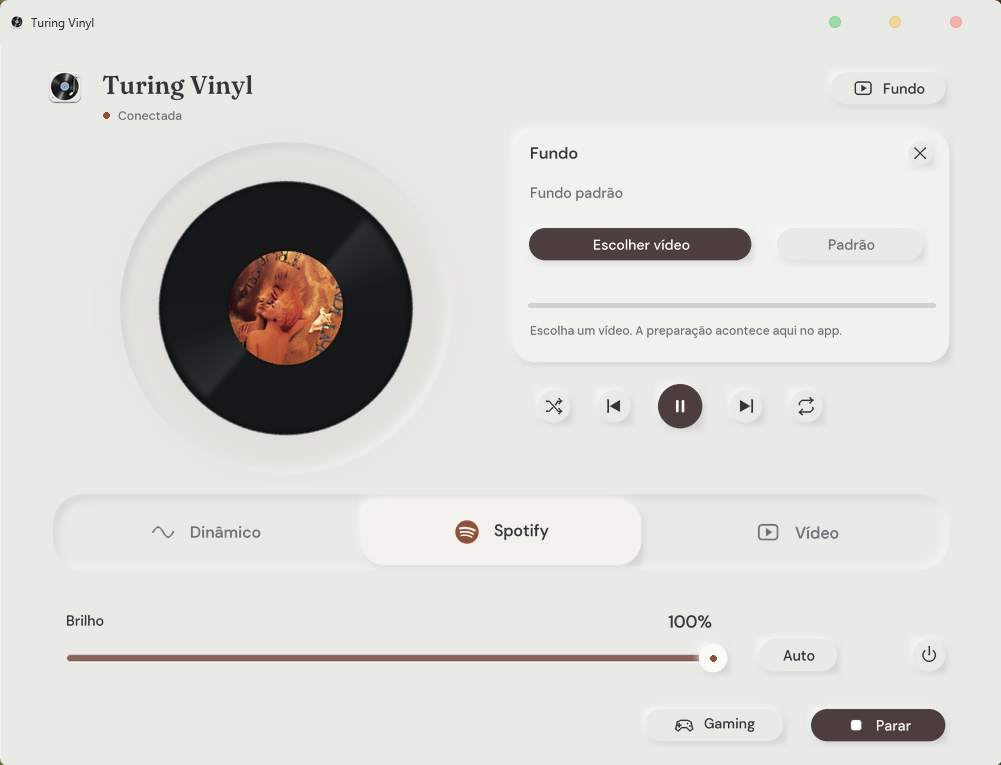
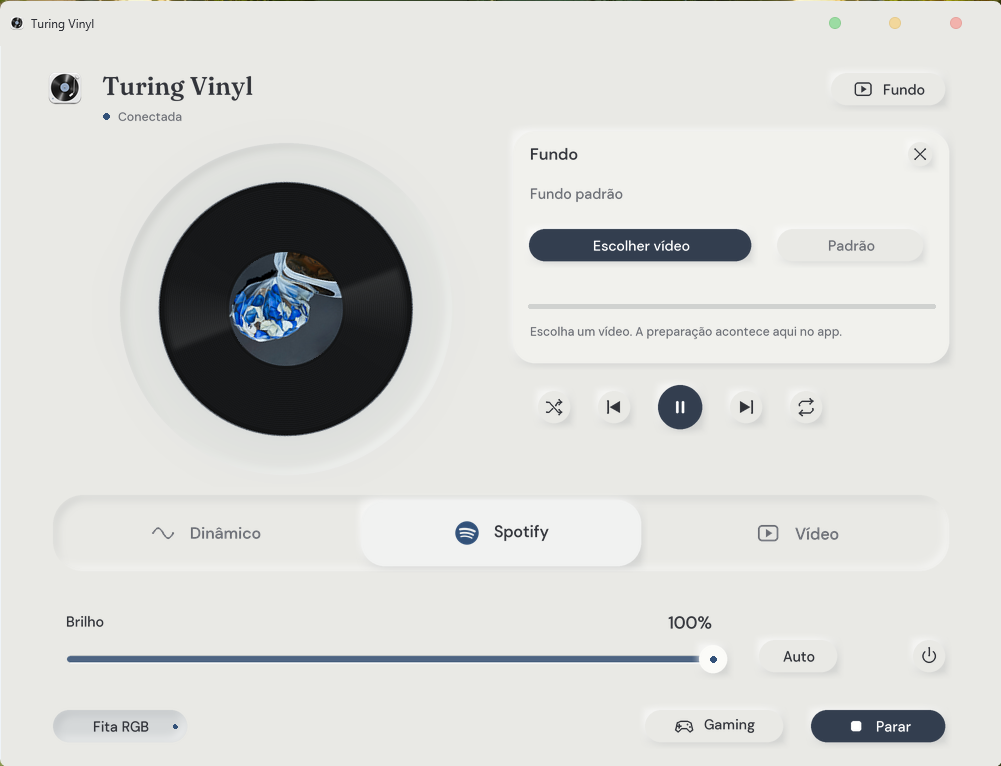
docs: refresh interface screenshots and RGB panel guide

diff --git a/docs/integrations.pt-BR.md b/docs/integrations.pt-BR.md
@@ -48,9 +48,19 @@ npm.cmd ci
 
 Mantenha a pasta com **config.cmd**, **src/ble-device.cjs** e **node_modules**.
 
-### 2. Configure o endereço da fita
+### 2. Conecte pelo Turing Vinyl
 
-Ligue o Bluetooth e a fita. Depois que o Windows detectar a controladora, execute no PowerShell:
+1. Ligue o Bluetooth e a fita. Feche o Lotus no celular e outros programas que a controlem.
+2. Abra **Turing Vinyl → Fita RGB** para mostrar o painel de controle.
+3. Clique em **Desligada** para ativar a fita. No primeiro uso, escolha a **pasta do Lotus** que você preparou.
+4. Clique em **Iniciar** na janela principal. O painel mostra o estado da conexão; **Pasta Lotus** troca a pasta usada.
+
+O app procura uma **ELK-BLEDDM** compatível e pode reencontrá-la após uma falha de conexão se o endereço mudar. Se encontrar várias fitas compatíveis, escolha a sua no painel. O endereço confirmado é salvo localmente; o `config.cmd` não é reescrito.
+
+<details>
+<summary>Opcional: informar um endereço Bluetooth conhecido</summary>
+
+Você pode fornecer um endereço inicial no **config.cmd** do Lotus. Depois que o Windows detectar a fita, consulte-o no PowerShell:
 
 ```powershell
 Get-PnpDevice -Class Bluetooth |
@@ -64,17 +74,18 @@ Em um identificador como `BTHLE\DEV_AA11BB22CC33\...`, **AA11BB22CC33** é o end
 set LED_DEVICE_UUID=AA11BB22CC33
 ```
 
-Use o seu endereço, não o exemplo. Se nenhum dispositivo aparecer, confira as configurações de Bluetooth do Windows. Se o endereço mudar depois, atualize essa linha.
+Use o seu endereço, não o exemplo. Se nenhum dispositivo aparecer, confira as configurações de Bluetooth do Windows.
 
-### 3. Conecte pelo Turing Vinyl
+</details>
 
-1. Feche o Lotus no celular e qualquer outro programa que controle a fita.
-2. Abra o **Turing Vinyl** e clique em **Fita RGB**. No primeiro uso, escolha a **pasta do Lotus** que você preparou.
-3. Clique em **Iniciar** na janela principal. A fita acompanha as cores do álbum e o brilho usado para os LEDs do PC, com transições suaves.
+### 3. Escolha cor e brilho
 
-Clique com o botão direito em **Fita RGB** para trocar a pasta do Lotus. Passe o mouse sobre ele para ver o estado da conexão. Clicar novamente desativa a sincronização; parar o app mantém a última cor na fita.
+- **Música:** acompanha a cor do álbum com transições suaves.
+- **Manual:** escolha uma cor fixa pela roda ou pelos campos **RGB, HSV ou HEX**.
+- **Brilho da fita:** ajusta a fita de forma independente. **Tela** acompanha o brilho dos LEDs do PC.
+- **Ligada / Desligada:** controla a fita; fechar o painel mantém os ajustes.
 
-O Turing Vinyl inicia sua própria ponte Bluetooth. Deixe o iniciador do Lotus fechado; essa integração não exige OpenRGB nem o plugin Effects. Em caso de falha de conexão, a ponte tenta novamente o endereço configurado.
+O Turing Vinyl inicia sua própria ponte Bluetooth. Deixe o iniciador do Lotus fechado; essa integração não exige OpenRGB nem o plugin Effects. Parar o app mantém a última cor na fita.
 
 ### Calibração das cores e registros
 

diff --git a/docs/integrations.md b/docs/integrations.md
@@ -48,9 +48,19 @@ npm.cmd ci
 
 Keep the folder containing **config.cmd**, **src/ble-device.cjs** and **node_modules**.
 
-### 2. Set your strip's address
+### 2. Connect through Turing Vinyl
 
-Turn on Bluetooth and the strip. After Windows detects it, run this in PowerShell:
+1. Turn on Bluetooth and the strip. Close Lotus on the phone and other programs controlling it.
+2. Open **Turing Vinyl → Fita RGB** to show the control panel.
+3. Click **Desligada** to enable the strip. On the first use, select the **Lotus folder** you prepared.
+4. Click **Iniciar** in the main window. The panel shows the connection status; **Pasta Lotus** changes the folder.
+
+The app searches for a compatible **ELK-BLEDDM** and can rediscover it after a connection failure if its address changes. If several compatible strips are found, select yours in the panel. The confirmed address is saved locally; `config.cmd` is not rewritten.
+
+<details>
+<summary>Optional: provide a known Bluetooth address</summary>
+
+You can supply an initial address in the Lotus **config.cmd**. After Windows detects the strip, find it in PowerShell:
 
 ```powershell
 Get-PnpDevice -Class Bluetooth |
@@ -64,17 +74,18 @@ In an ID such as `BTHLE\DEV_AA11BB22CC33\...`, **AA11BB22CC33** is the address. 
 set LED_DEVICE_UUID=AA11BB22CC33
 ```
 
-Use your own address, not the example. If no device appears, check Windows Bluetooth settings. If the address changes later, update this line.
+Use your own address, not the example. If no device appears, check Windows Bluetooth settings.
 
-### 3. Connect through Turing Vinyl
+</details>
 
-1. Close Lotus on the phone and any other program controlling the strip.
-2. Open **Turing Vinyl** and click **Fita RGB**. On the first use, select the **Lotus folder** you prepared.
-3. Click **Iniciar** in the main window. The strip follows album colors and the brightness used for the PC LEDs, with smooth transitions.
+### 3. Choose color and brightness
 
-Right-click **Fita RGB** to change the Lotus folder. Hover over it for connection status. Clicking it again disables synchronization; stopping the app leaves the strip at its last color.
+- **Música:** follow the album color with smooth transitions.
+- **Manual:** choose a fixed color using the wheel or **RGB, HSV or HEX** inputs.
+- **Brilho da fita:** adjust the strip independently. **Tela** follows the PC LEDs' brightness.
+- **Ligada / Desligada:** control the strip; closing the panel keeps its settings.
 
-Turing Vinyl starts its own Bluetooth bridge. Keep the Lotus launcher closed; you do not need OpenRGB or its Effects plugin for this integration. On connection failure, the bridge retries the configured address.
+Turing Vinyl starts its own Bluetooth bridge. Keep the Lotus launcher closed; you do not need OpenRGB or its Effects plugin for this integration. Stopping the app leaves the strip at its last color.
 
 ### Color calibration and logs
 

diff --git a/README.pt-BR.md b/README.pt-BR.md
@@ -63,6 +63,8 @@ Dê dois cliques em **Turing Vinyl.lnk**, na pasta do projeto. Use esse atalho n
   <img src="docs/images/turing-vinyl-interface.png" alt="Interface do Turing Vinyl no Windows: disco girando, controles do Spotify, modos de exibição e slider de brilho" width="860">
 </p>
 
+<p align="center"><sub>Modo Spotify: capa do álbum, informações da faixa e playlist, controles de música e brilho da tela.</sub></p>
+
 1. Conecte a tela por USB e coloque uma música no **Spotify para Windows**.
 2. Abra o **Turing Vinyl**, escolha um modo e clique em **Iniciar**.
 3. Clique em **Parar** quando terminar.
@@ -81,9 +83,24 @@ Dê dois cliques em **Turing Vinyl.lnk**, na pasta do projeto. Use esse atalho n
 | **Fundo → Escolher vídeo** | Escolha seu fundo; o app converte e salva a seleção. **Padrão** restaura o vídeo incluído. |
 
 <details>
-<summary>Ver o painel de vídeo de fundo</summary>
+<summary>Vídeo de fundo · escolha o seu</summary>
 
-<img src="docs/images/turing-vinyl-background.png" alt="Painel de escolha do vídeo de fundo no Turing Vinyl com progresso da conversão" width="860">
+<p align="center">
+  <img src="docs/images/turing-vinyl-background.png" alt="Painel Fundo do Turing Vinyl com Escolher vídeo, Padrão e progresso da conversão automática" width="860">
+</p>
+
+Abra **Fundo**, clique em **Escolher vídeo** e aguarde o preparo pelo app. **Padrão** restaura o fundo incluído.
+
+</details>
+
+<details>
+<summary>Fita RGB Bluetooth · cor e brilho</summary>
+
+<p align="center">
+  <img src="docs/images/turing-vinyl-rgb-strip.png" alt="Turing Vinyl ao lado do painel da fita RGB Bluetooth Lotus Lantern com roda de cores, campos RGB HSV HEX e slider de brilho" width="1000">
+</p>
+
+Abra **Fita RGB**. Escolha **Música** para acompanhar o álbum ou **Manual** para usar a roda de cores e os campos RGB, HSV ou HEX. O slider ajusta o brilho da fita; **Tela** acompanha o brilho dos LEDs do PC. [Guia de conexão](docs/integrations.pt-BR.md#fita-bluetooth-com-lotus-lantern).
 
 </details>
 

diff --git a/README.md b/README.md
@@ -62,6 +62,8 @@ Double-click **Turing Vinyl.lnk** in the project folder. Use this shortcut every
   <img src="docs/images/turing-vinyl-interface.png" alt="Turing Vinyl Windows interface: rotating record, Spotify playback controls, display modes and brightness slider" width="860">
 </p>
 
+<p align="center"><sub>Spotify mode: album artwork, track and playlist details, playback controls and screen brightness.</sub></p>
+
 1. Connect the screen by USB and start a track in **Spotify for Windows**.
 2. Open **Turing Vinyl**, choose a mode and click **Iniciar** (Start).
 3. Click **Parar** (Stop) when finished.
@@ -82,9 +84,24 @@ The interface labels are currently in Portuguese.
 | **Fundo → Escolher vídeo** | Pick your background; the app converts it and saves your choice. **Padrão** restores the included video. |
 
 <details>
-<summary>See the background video panel</summary>
+<summary>Background video · choose your own</summary>
 
-<img src="docs/images/turing-vinyl-background.png" alt="Turing Vinyl background video picker with conversion progress" width="860">
+<p align="center">
+  <img src="docs/images/turing-vinyl-background.png" alt="Turing Vinyl background panel with Choose video, Default and automatic conversion progress" width="860">
+</p>
+
+Open **Fundo**, click **Escolher vídeo** and let the app prepare it. **Padrão** restores the bundled background.
+
+</details>
+
+<details>
+<summary>Bluetooth RGB strip · color and brightness</summary>
+
+<p align="center">
+  <img src="docs/images/turing-vinyl-rgb-strip.png" alt="Turing Vinyl alongside its Lotus Lantern Bluetooth RGB strip panel with color wheel, RGB HSV HEX inputs and brightness slider" width="1000">
+</p>
+
+Open **Fita RGB**. Choose **Música** to follow the album or **Manual** for the color wheel and RGB, HSV or HEX inputs. The brightness slider adjusts the strip; **Tela** follows the PC LEDs' brightness. [Connection guide](docs/integrations.md#bluetooth-strip-with-lotus-lantern).
 
 </details>
 
